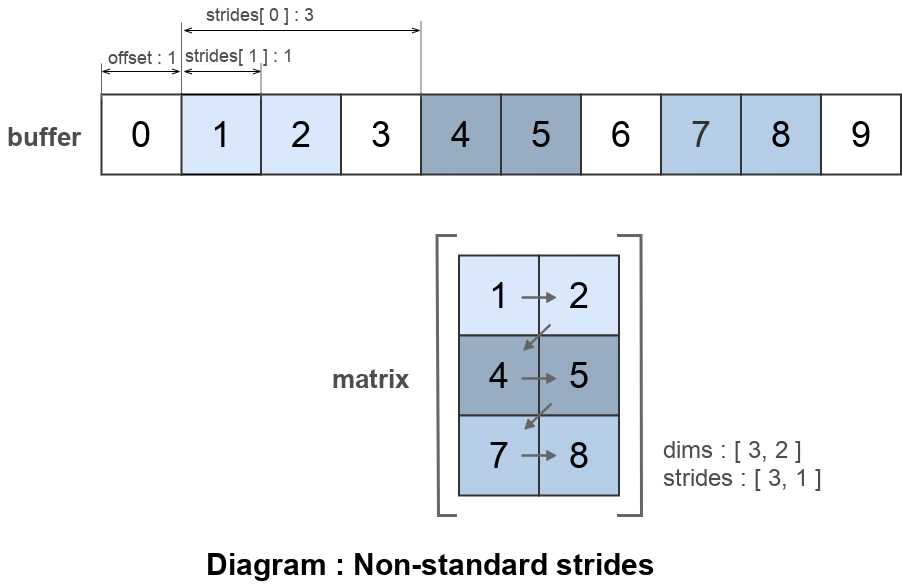
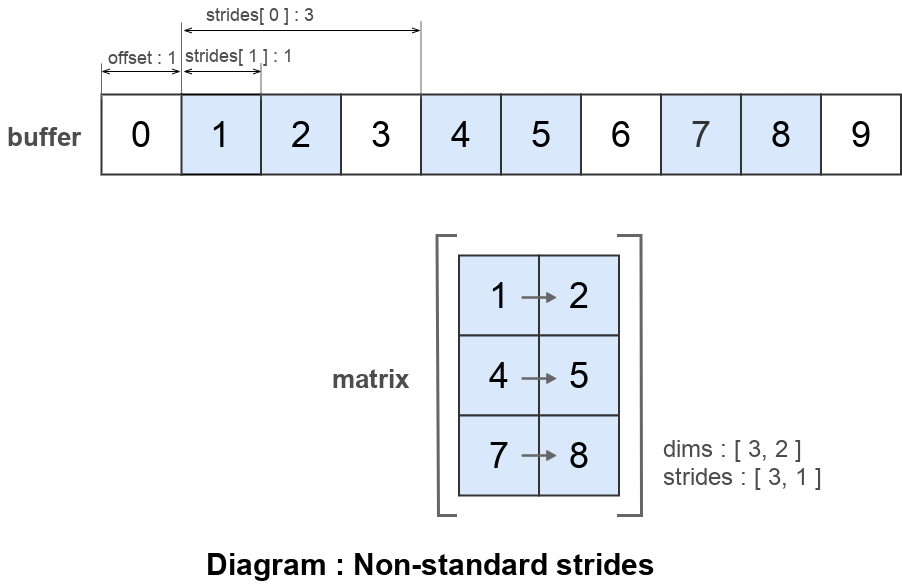
Improve images, minimal colormap, arrows, transposing

diff --git a/doc/ukr/tutorial/OptionStrides.md b/doc/ukr/tutorial/OptionStrides.md
@@ -91,7 +91,7 @@ console.log( `effective strides :\n${ matrix._stridesEffective }` );
 
 Останній приклад ілюструється наступною діаграмою.
 
-![StandardStrides.png](../../img/StandardStrides.png)
+![StandardExplicitStrides.png](../../img/StandardExplicitStrides.png)
 
 Приведена діаграма показує як буфер відображається ( map into ) в матрицю. Всі скаляри йдуть послідовно один за одним. За замовчуванням `strides` обраховується так щоб всі скаляри йшли послідовно. В якій же послідовності перебирати розмірності вказує оція `inputTransposing`.
 
@@ -156,7 +156,7 @@ console.log( `matrix :\n${ matrix.toStr() }` );
 Для транспонування матриці можна змінити порядок значень в опції `strides`.
 
 ```js
-var buffer1 = new I32x( [ 0, 1, 2, 3, 4, 5, 6, 7, 8, 9 ] );
+var buffer1 = new I32x( [ 0, 1, 2, 3, 4, 5, 6, 7, 8, 9, 10, 11 ] );
 
 var matrix = _.Matrix
 ({
@@ -176,15 +176,14 @@ console.log( `matrix :\n${ matrix.toStr() }` );
 var matrixTransposed = _.Matrix
 ({
   buffer : buffer1,
-  dims : [ 3, 2 ],
+  dims : [ 2, 3 ],
   strides : [ 1, 3 ],
   offset : 1,
 });
 console.log( `transposed matrix :\n${ matrixTransposed.toStr() }` );
 /* log : transposed matrix :
-+1, +4,
-+2, +5,
-+3, +6,
++1, +2, +4,
++5, +7, +9,
 */
 ```
 
